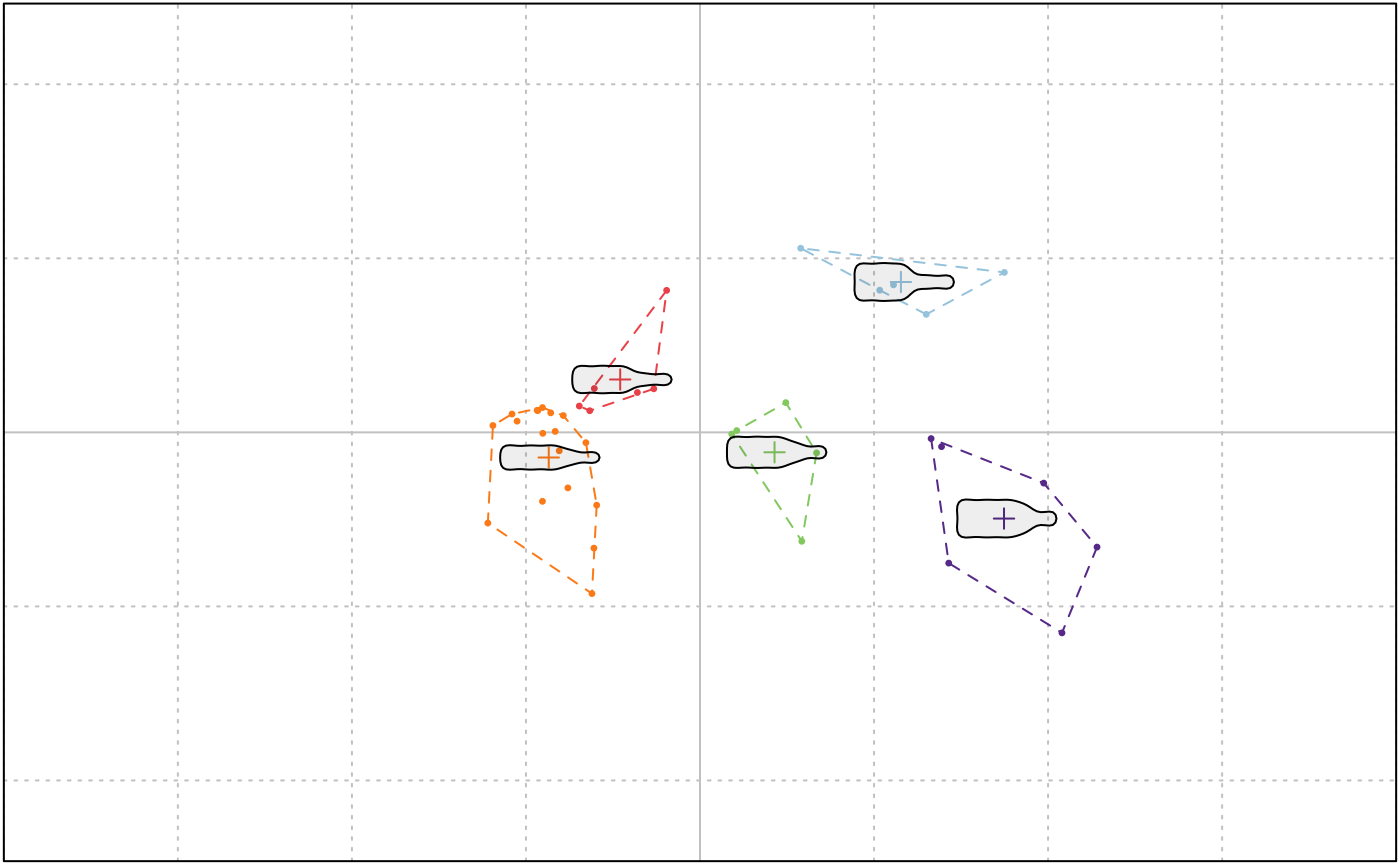
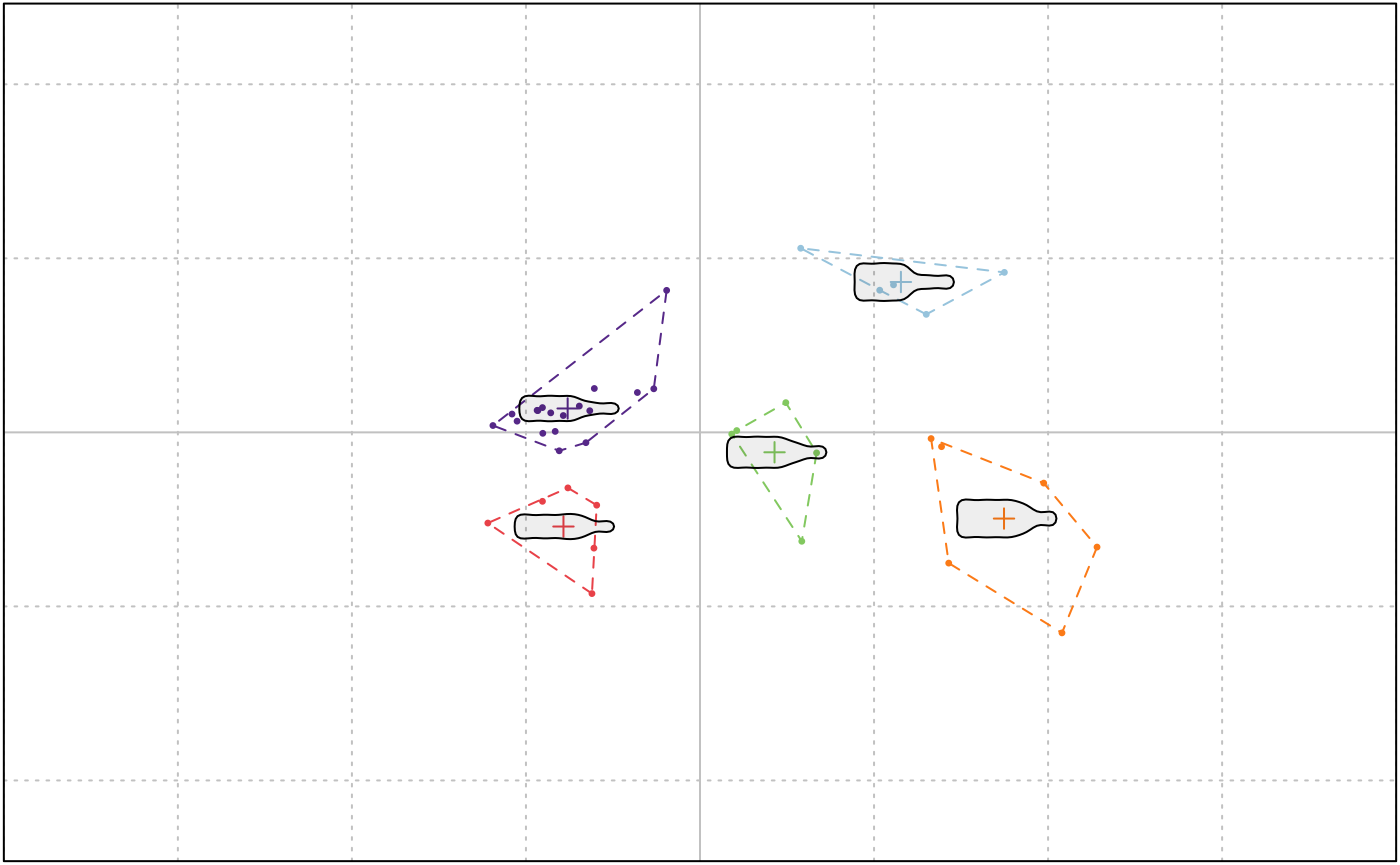
website

diff --git a/docs/articles/Momocs_intro.html b/docs/articles/Momocs_intro.html
@@ -648,37 +648,37 @@
 <p>A very minimal k-means clustering is implemented:</p>
 <div class="sourceCode" id="cb60"><pre class="sourceCode r"><code class="sourceCode r"><a class="sourceLine" id="cb60-1" data-line-number="1"><span class="kw"><a href="../reference/KMEANS.html">KMEANS</a></span>(bot.p, <span class="dt">centers =</span> <span class="dv">5</span>)</a></code></pre></div>
 <p><img src="Momocs_intro_files/figure-html/unnamed-chunk-38-1.png" width="700"></p>
-<pre><code>## K-means clustering with 5 clusters of sizes 5, 5, 6, 18, 6
+<pre><code>## K-means clustering with 5 clusters of sizes 5, 5, 6, 6, 18
 ## 
 ## Cluster means:
 ##           PC1          PC2
 ## 1  0.06730453  0.050371247
 ## 2  0.02497106 -0.006671549
-## 3 -0.02673158  0.017713990
-## 4 -0.05066899 -0.008418168
-## 5  0.10184224 -0.028875902
+## 3 -0.04573875 -0.031541607
+## 4  0.10184224 -0.028875902
+## 5 -0.04433327  0.008000365
 ## 
 ## Clustering vector:
 ##         brahma          caney         chimay         corona    deusventrue 
-##              4              3              5              4              3 
+##              3              5              4              5              5 
 ##          duvel   franziskaner     grimbergen        guiness     hoegardeen 
-##              5              4              2              2              4 
+##              4              3              2              2              5 
 ##        jupiler     kingfisher       latrappe lindemanskriek    nicechouffe 
-##              4              4              5              3              3 
+##              5              5              4              5              5 
 ##     pecheresse   sierranevada     tanglefoot          tauro      westmalle 
-##              4              2              5              4              4 
+##              5              2              4              5              5 
 ##          amrut    ballantines      bushmills         chivas        dalmore 
-##              4              5              4              1              1 
+##              5              4              3              1              1 
 ##   famousgrouse    glendronach   glenmorangie   highlandpark    jackdaniels 
-##              4              4              4              5              2 
+##              3              5              5              4              2 
 ##             jb  johnniewalker       magallan     makersmark           oban 
-##              3              4              4              1              4 
+##              5              3              3              1              5 
 ##     oldpotrero      redbreast         tamdhu     wildturkey         yoichi 
-##              1              1              4              3              2 
+##              1              1              5              5              2 
 ## 
 ## Within cluster sum of squares by cluster:
-## [1] 0.002720829 0.001916822 0.001886406 0.007905382 0.006121728
-##  (between_SS / total_SS =  88.6 %)
+## [1] 0.002720829 0.001916822 0.001860776 0.006121728 0.006537571
+##  (between_SS / total_SS =  89.4 %)
 ## 
 ## Available components:
 ## 
